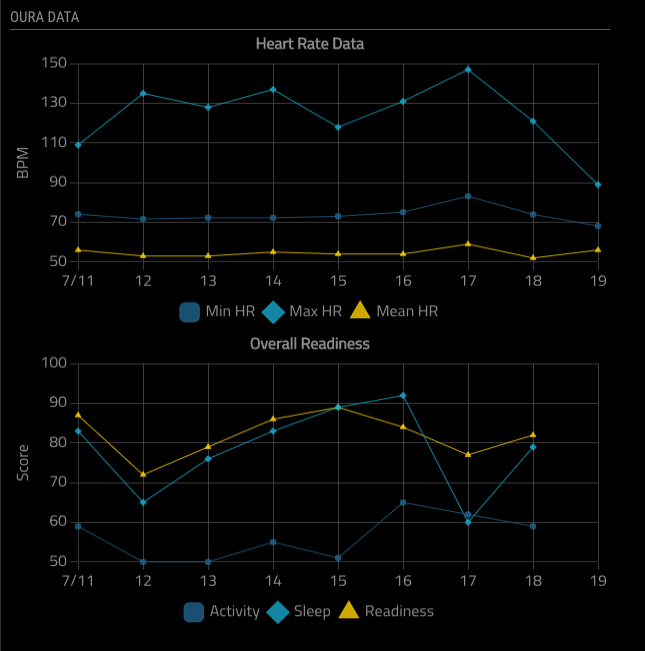
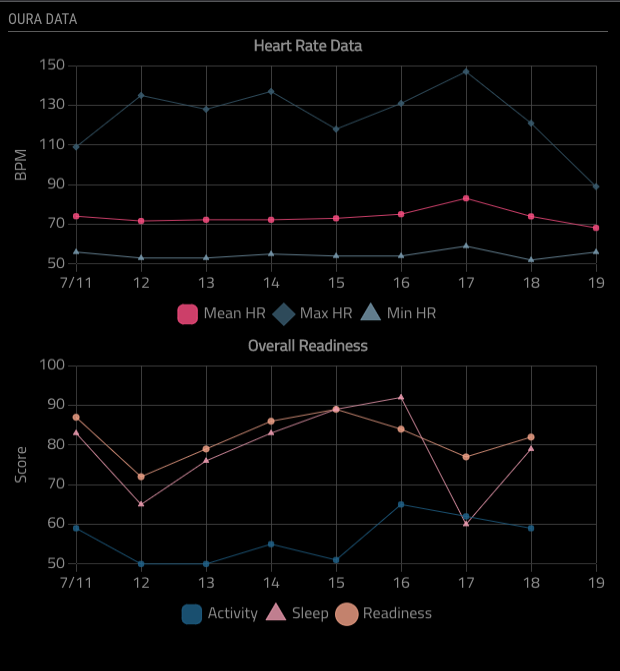
bug fix for chart label; updated readme; updated screenshot based on bugfix.

diff --git a/MMM-Oura2.js b/MMM-Oura2.js
@@ -37,6 +37,34 @@ Module.register("MMM-Oura2", {
 		self.chart_wrapper;
 		self.loaded = false;
 
+
+		// enforce ranges on configurable integer values in order to ensure somewhat sane behavior
+		if (self.config.updateInterval < 2000) {
+			self.config.updateInterval = 2000;
+		} else if (self.config.updateInterval > 86400000) {
+			self.config.updateInterval = 86400000;
+		}
+
+		if (self.config.lineWeight < 0) {
+			self.config.lineWeight = 0;
+		} else if (self.config.lineWeight > 10) {
+			self.config.lineWeight = 10;
+		}
+
+		if (self.config.palette < 0) {
+			self.config.palette = 0;
+		} else if (self.config.palette > 3) {
+			self.config.palette = 3;
+		}
+
+		if (self.config.dotWeight < 0) {
+			self.config.dotWeight = 0;
+		} else if (self.config.dotWeight > 10) {
+			self.config.dotWeight = 10;
+		}
+
+
+
 		// Create repeating call to node_helper get list
 		setInterval(function() {
 			self.sendSocketNotification("REQUEST_UPDATE", self.config);
@@ -174,6 +202,9 @@ Module.register("MMM-Oura2", {
 
 				var dataSet = {};
 
+        			colNum ++;
+
+
         			if (!columns.includes(column)) {
             				// Only pick up the columns we want
             				continue;
@@ -181,12 +212,11 @@ Module.register("MMM-Oura2", {
 
 				// Text label for this data series on the legend
 				if (labelColumns) {
-					dataSet.label = labelColumns[colNum];
+					dataSet.label = labelColumns[columns.indexOf(column)];
 				} else {
 					dataSet.label = column;
 				}
 
-        			colNum ++;
 
         			data = [];
         			labels = [];
